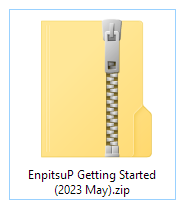
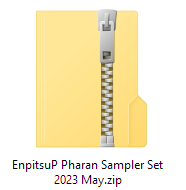
Fix ambiguity of getting started.

Changed region(s): [[0.027, 0.0263, 0.9459, 1.0], [0.9459, 0.0526, 0.973, 0.9474]]

diff --git a/getting-started.md b/getting-started.md
@@ -2,17 +2,31 @@
 title: "Getting Started"
 ---
 
-## Getting Started
+# Getting Started
+
+## Tips Images
+
+The main set* of each pack also comes with a folder named "Tips" of images that illustrate samples and tips for how to use the brushes.
+
+![](img/getting-started-tips-and-samples-files.png)
+
+*For **EnpitsuP**, the main set is named "EnpitsuP-Pharans-Drawing-Tools...", for **Krupuk** it's named "Pharan-Krupuk-MarkersAndWater", for **Tapioca** is named "TapiocaP-Pharan-Digital-Painting..."
+
+---
+
+## Sampler Set
 
 If you already purchased one of my brush packs, you probably know that there are hundreds of brushes in them. For a lot of people, it would be overwhelming to try to install all of them immediately, or read the documentation to figure out everything before knowing how to navigate or organize them.
 
-To help you ease into my brush pack packs, I've included a "Getting Started" file with each pack. These are a selection of brushes that represent the pack's "main" and "most-likely-useful" brushes.
+To help you ease into my brush pack packs, I've included a "Sampler Set" file with each pack. These are a selection of brushes that represent the pack's "main" and "most-likely-useful" brushes.
 
 ![](img/getting-started/getting-started-zip-file-screenshot.png)
 
-Look for the file that has "Getting Started" in the name. You can just install the brushes in those few folders and try them out right away to get a feel for which one suits the way you draw or paint. No need to read through the documentation first.
+Look for the file that has "Sampler" in the name. You can just install the brushes in those few folders and try them out right away to get a feel for which one suits the way you draw or paint. No need to read through the documentation first.
 
 The majority of the brushes in the full set will be variations of these main brushes so if you find something in the starter set but wish it could be slightly different, it might be in the full set. If not, feel free to contact me.
+
+---
 
 ---
 

diff --git a/index.md b/index.md
@@ -14,11 +14,9 @@ If you are having trouble with payments through the ko-fi shop, you can try the 
 
 ### Getting Started
 
-If you just want to jump in and get a feel for the brushes, each pack comes with a [Getting Started](getting-started) file to help you ease into the pack instead of immediately installing the hundreds of included brushes.  
+Each of my brush packs have over a hundred brushes in them. Depending on how you want to proceed, I'm trying to provide more options to discover what brushes you might like or find useful, from swatches, videos, tips images and sampler sets.
 
-Alternatively, each main zip file for each pack has an image comes with a folder of images that illustrate samples and tips for how to use the brushes.
-
-![](img/getting-started/getting-started-tips-and-samples-files.png)
+Visit the [Getting Started](getting-started) page for more info.
 
 
 ### Brush Pack Documentation

diff --git a/enpitsup-changelog.md b/enpitsup-changelog.md
@@ -16,6 +16,9 @@ brushpack: enpitsup
 ---
 ## 2023
 
+### 2023 Jun 1
+Renamed the "Getting Started" file to "Sampler Set".
+
 ### 2023 May 13
 
 Added the "Getting Started" file. You can [read more about the Getting Started files](../getting-started).
